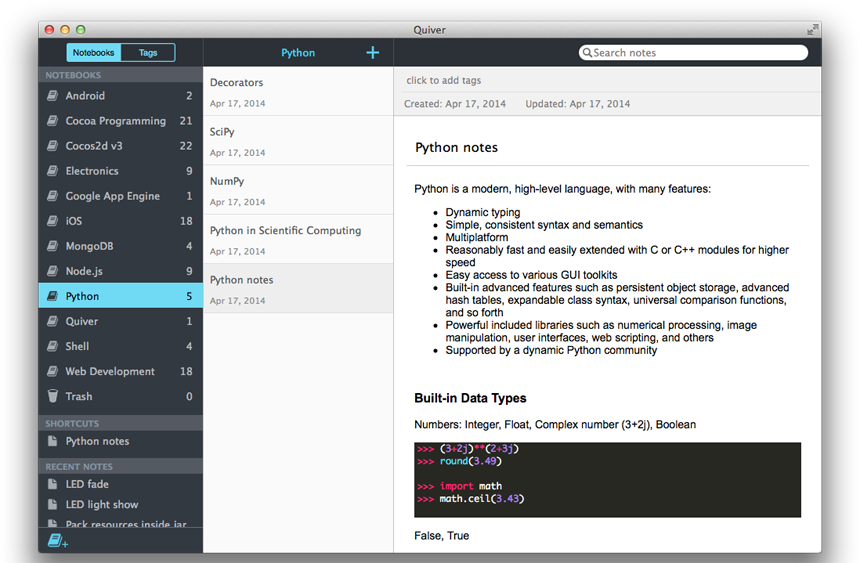
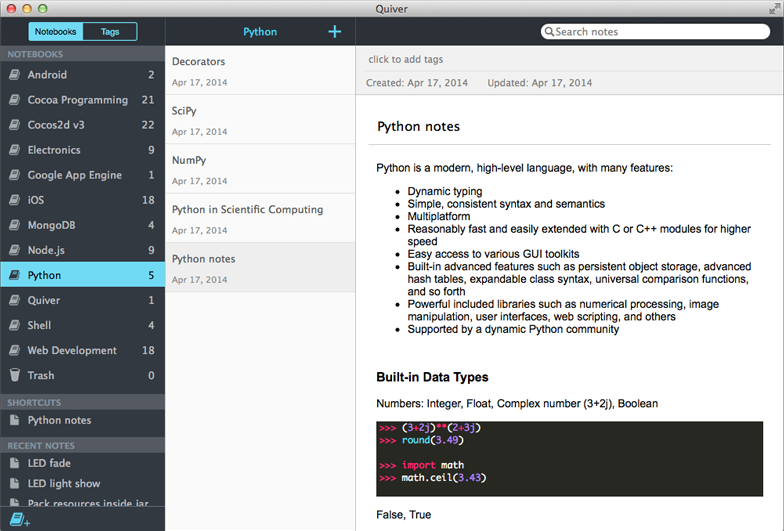
Removed transparency from screenshots.

diff --git a/client/apps/main/templates/quiver.html b/client/apps/main/templates/quiver.html
@@ -18,7 +18,7 @@
 <div class="container screenshot-container">
   <div class="row banner-image">
     <div class="col-md-10 col-md-offset-1">
-      <img class="img-responsive bordered" src="images/quiver/screenshot1.png" alt="Quiver screenshot">
+      <img class="img-responsive bordered" src="images/quiver/screenshot1.jpg" alt="Quiver screenshot">
     </div>
   </div>
 </div>
@@ -46,17 +46,17 @@
       <div class="row">
         <div class="col-md-4">
           <a href="#" class="thumbnail">
-            <img src="images/quiver/screenshot1.png" alt="">
+            <img src="images/quiver/screenshot1.jpg" alt="">
           </a>
         </div>
         <div class="col-md-4">
           <a href="#" class="thumbnail">
-            <img src="images/quiver/screenshot2.png" alt="">
+            <img src="images/quiver/screenshot2.jpg" alt="">
           </a>
         </div>
         <div class="col-md-4">
           <a href="#" class="thumbnail">
-            <img src="images/quiver/screenshot3.png" alt="">
+            <img src="images/quiver/screenshot3.jpg" alt="">
           </a>
         </div>
       </div>

diff --git a/client/assets/stylesheets/main.less b/client/assets/stylesheets/main.less
@@ -29,7 +29,7 @@ body {
 }
 
 img.bordered {
-  .box-shadow(0px 10px 30px 0px rgba(50, 50, 50, 0.75););
+  .box-shadow(0px 10px 30px 0px rgba(50, 50, 50, 0.75));
 }
 
 .screenshot-container {
@@ -124,6 +124,10 @@ img.bordered {
 .carousel .item {
   height: 400px;
   background-color: #777;
+
+  .thumbnail > img {
+    .box-shadow(0px 10px 50px 0px rgba(50, 50, 50, 1.0));
+  }
 }
 
 .carousel-inner > .item > img {
